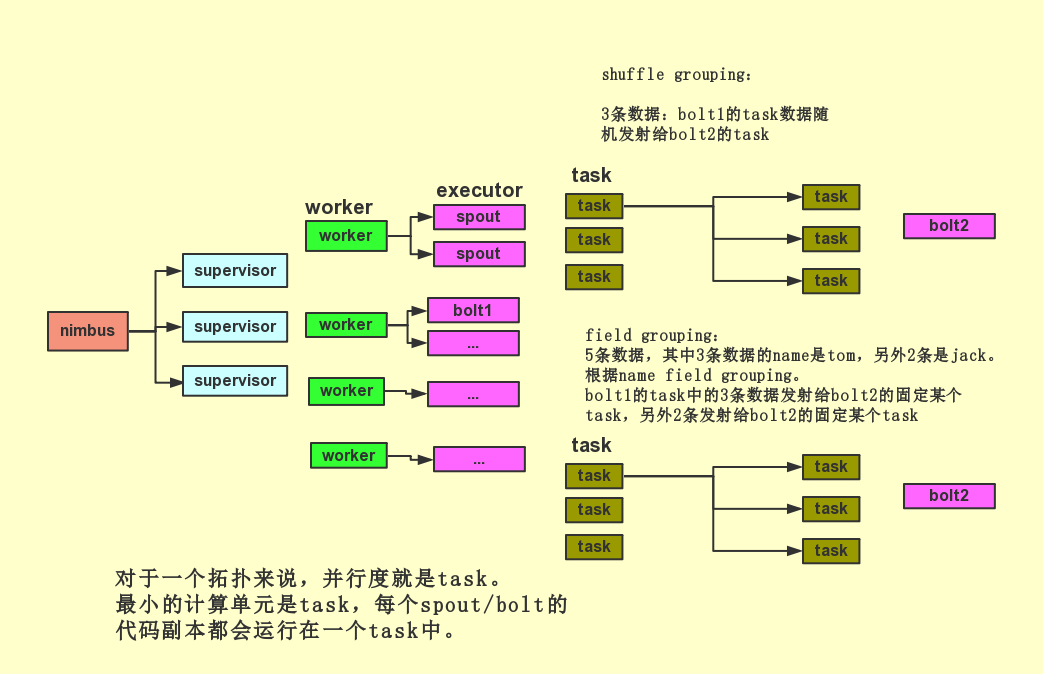
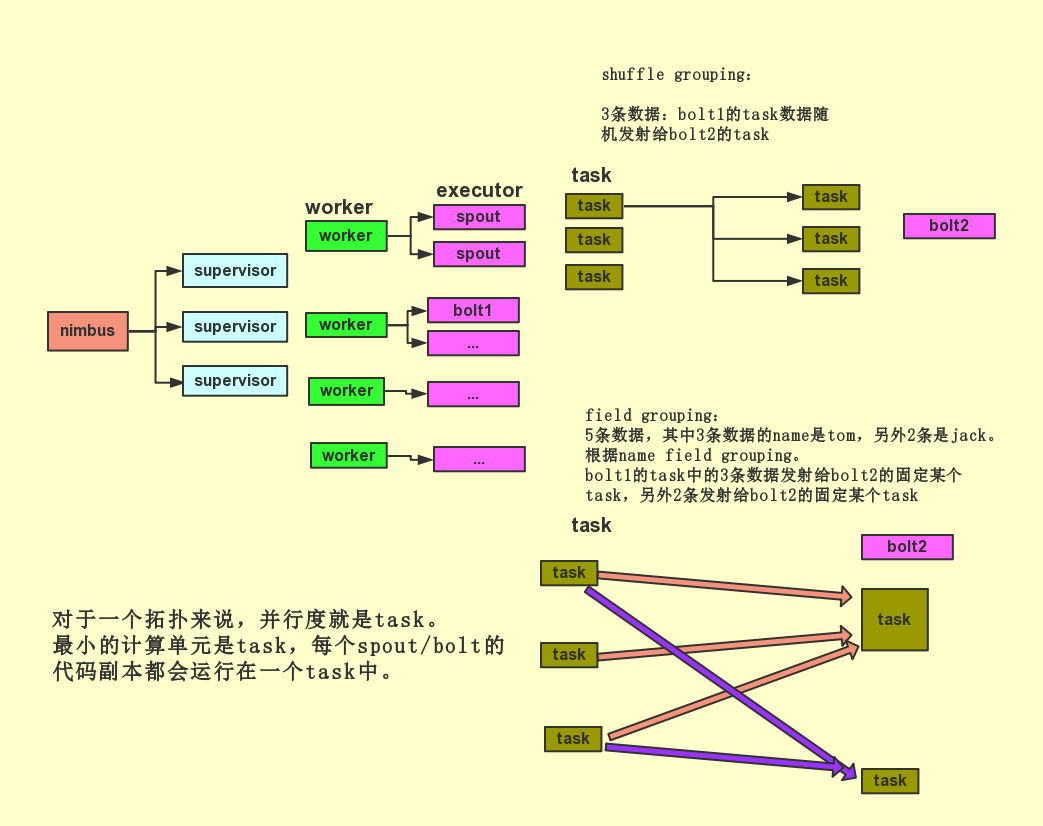
提交博客.

diff --git a/61-67-Storm教程.md b/61-67-Storm教程.md
@@ -67,3 +67,25 @@ categories: storm
 
 >* stream：就是一个流，务虚的一个概念，抽象的概念，源源不断过来的tuple，就组成了一条数据流
 ![storm核心概念](storm核心概念.png 'storm核心概念')
+
+## Storm的并行度和流分组
+
+***并行度和流分组***
+
+* 并行度：Worker->Executor->Task，没错，是Task
+
+* 流分组：Task与Task之间的数据流向关系
+
+>* Shuffle Grouping：随机发射，负载均衡
+>* Fields Grouping：根据某一个，或者某些个，fields，进行分组，那一个或者多个fields如果值完全相同的话，那么这些tuple，就会发送给下游bolt的其中固定的一个task
+你发射的每条数据是一个tuple，每个tuple中有多个field作为字段
+比如tuple，3个字段，name，age，salary
+{"name": "tom", "age": 25, "salary": 10000} -> tuple -> 3个field，name，age，salary
+
+>* All Grouping：全分组，发射给下游的每个task
+>* Global Grouping：全局id最小的
+>* None Grouping 与 Shuffle Grouping相同
+>* Direct Grouping：直接指定
+>* Local or Shuffle Grouping：同一个executor中
+
+![storm并行度和流分组](storm并行度和流分组.png 'storm并行度和流分组')
